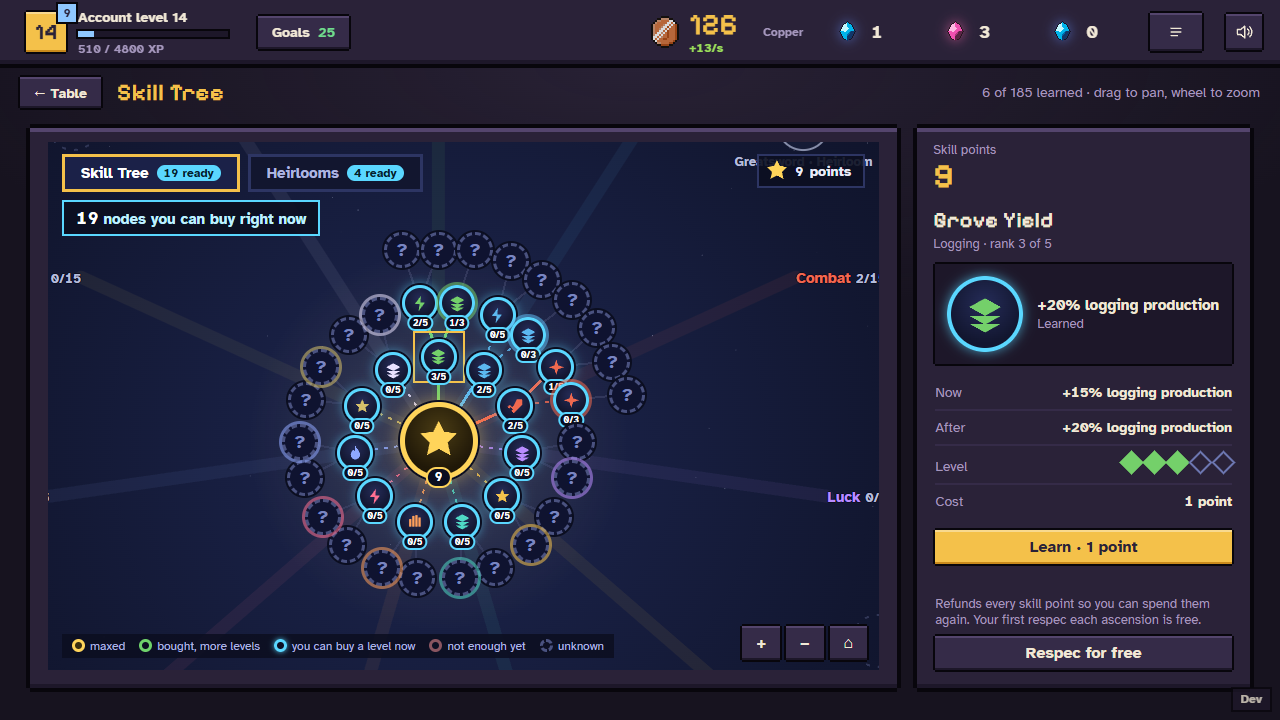
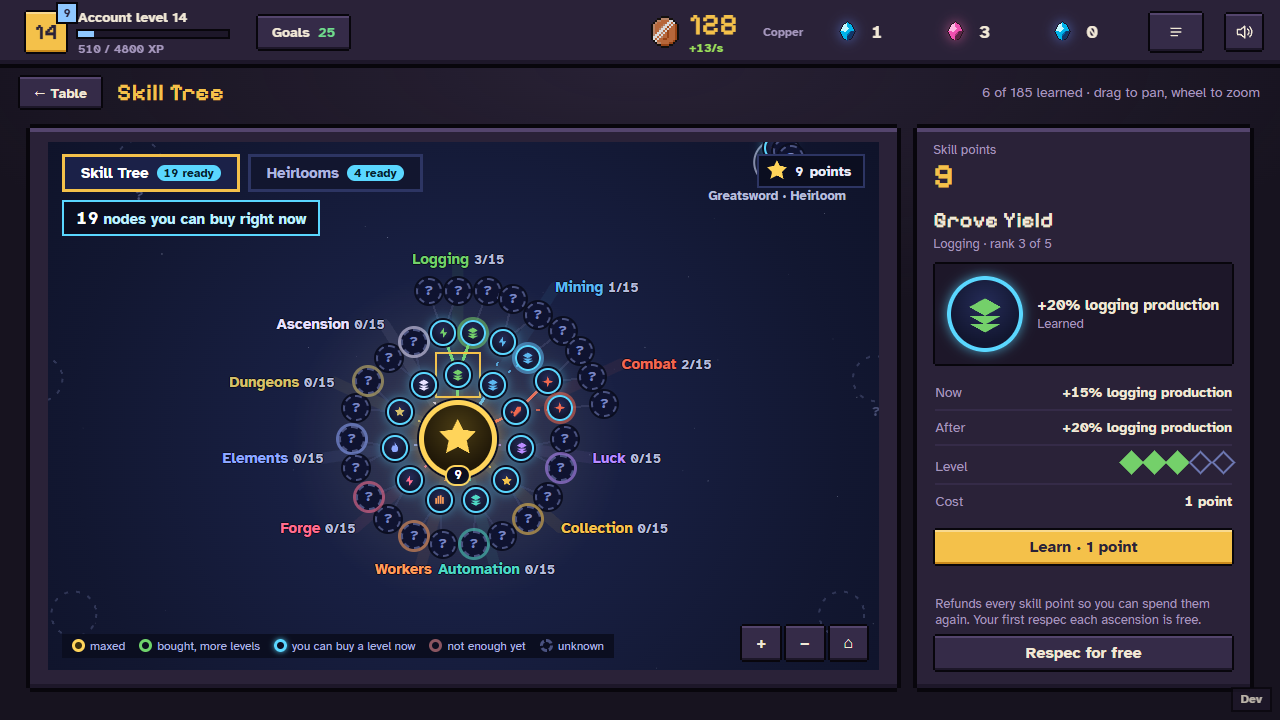
Skill Tree web: names only where they fit, titles whole in the frame, node art cosmetic in the plates

diff --git a/src/renderer/src/pages/skills.ts b/src/renderer/src/pages/skills.ts
@@ -12,6 +12,7 @@ import { frame, h } from '../shell/shell';
 import { attachTooltip, hide as hideTip } from '../shell/tooltip';
 import type { SoundId } from '../sound/registry';
 import { replay } from '../stage/motion';
+import { nodeStyle, skillGem } from '../ui/skillArt';
 import { glyphSvg } from '../ui/webGlyphs';
 import { createHeirloomsTab } from './heirloomsMap';
 import type { PageContext } from './production';
@@ -76,6 +77,14 @@ function starField(): SVGElement {
   }
   return g;
 }
+
+/** The gem art knows locked, open and owned: a closed gem is drawn locked, a maxed one owned. */
+const gemState = (n: NodeView): 'locked' | 'open' | 'owned' =>
+  n.state === 'maxed'
+    ? 'owned'
+    : n.state === 'closed' || n.state === 'unknown'
+      ? 'locked'
+      : n.state;
 
 export function createSkillsPage(page: HTMLElement, ctx: SkillsContext): { render(): void } {
   const { content } = ctx;
@@ -168,6 +177,11 @@ export function createSkillsPage(page: HTMLElement, ctx: SkillsContext): { rende
   const camera = { scale: START_SCALE, x: 0, y: 0, placed: false, touched: false, width: 0 };
   /** The skills in view (sky units): the first view fits them, so the web you have opens whole. */
   let fit: { x0: number; y0: number; x1: number; y1: number } | null = null;
+  /** The branch titles in view, so the first view keeps them whole inside the frame. */
+  let titles: { x: number; y: number; anchor: 'start' | 'middle' | 'end'; w: number }[] = [];
+  /** Every plate and its name, for hiding the names that would touch something. */
+  let plates: { n: NodeView; name: HTMLElement | null }[] = [];
+  let titleEls: HTMLElement[] = [];
   const clampScale = (s: number): number => Math.min(MAX_SCALE, Math.max(MIN_SCALE, s));
 
   /** Sizes and places the sky box in its stage from the camera (gems keep their pixel size). */
@@ -180,22 +194,104 @@ export function createSkillsPage(page: HTMLElement, ctx: SkillsContext): { rende
     if (!camera.placed && rect.width > 0) {
       camera.width = rect.width;
       // first view: everything you know, and the "?" next to it, inside the frame (under the tabs)
-      const f = fit ?? { x0: 0, y0: 0, x1: 0, y1: 0 };
-      const w = Math.max(f.x1 - f.x0, 1);
-      const hgt = Math.max(f.y1 - f.y0, 1);
-      camera.scale = clampScale(
-        Math.min((rect.width - 150) / w, (rect.height - (rect.width < 1000 ? 200 : 270)) / hgt, 1),
-      );
+      const f0 = fit ?? { x0: 0, y0: 0, x1: 0, y1: 0 };
+      let f = f0;
+      let scale = camera.scale;
+      // a few passes: a title is a fixed width in pixels, so its reach in sky units depends on the scale
+      for (let pass = 0; pass < 3; pass++) {
+        f = { ...f0 };
+        for (const t of titles) {
+          const reach = t.w / scale;
+          const left =
+            t.anchor === 'start' ? t.x : t.anchor === 'end' ? t.x - reach : t.x - reach / 2;
+          f.x0 = Math.min(f.x0, left);
+          f.x1 = Math.max(f.x1, left + reach);
+          f.y0 = Math.min(f.y0, t.y - 14 / scale);
+          f.y1 = Math.max(f.y1, t.y + 14 / scale);
+        }
+        scale = clampScale(
+          Math.min(
+            (rect.width - 90) / Math.max(f.x1 - f.x0, 1),
+            (rect.height - (rect.width < 1000 ? 190 : 215)) / Math.max(f.y1 - f.y0, 1),
+            1,
+          ),
+        );
+      }
+      camera.scale = scale;
       camera.x = rect.width / 2 - ((f.x0 + f.x1) / 2 - SKY.x) * camera.scale;
       camera.y = rect.height / 2 + 8 - ((f.y0 + f.y1) / 2 - SKY.y) * camera.scale;
       camera.placed = true;
     }
-    box.classList.toggle('is-far', camera.scale < 0.45);
-    box.classList.toggle('is-tiny', camera.scale < 0.4);
+    box.classList.toggle('is-far', camera.scale < 0.25);
+    box.classList.toggle('is-micro', camera.scale < 0.3);
+    box.classList.toggle('is-tiny', camera.scale < 0.42);
     box.style.width = `${SKY.w * camera.scale}px`;
     box.style.height = `${SKY.h * camera.scale}px`;
     box.style.left = `${camera.x}px`;
     box.style.top = `${camera.y}px`;
+    declutter();
+  }
+
+  /** Hides each name that would touch another name or a plate (the chosen skill always shows its own). */
+  function declutter(): void {
+    const k = camera.scale;
+    const reach = (n: NodeView): number => (n.keystone ? 38 : k < 0.3 ? 15 : k < 0.42 ? 21 : 30);
+    type R = { x0: number; y0: number; x1: number; y1: number };
+    const boxes = plates.map(({ n }) => ({
+      id: n.id,
+      x0: n.x * k - reach(n),
+      y0: n.y * k - reach(n),
+      x1: n.x * k + reach(n),
+      y1: n.y * k + reach(n),
+    }));
+    const hit = (a: R, b: R): boolean =>
+      a.x0 < b.x1 + 3 && a.x1 > b.x0 - 3 && a.y0 < b.y1 + 3 && a.y1 > b.y0 - 3;
+    const rank = (n: NodeView): number =>
+      n.id === selected ? 0 : n.canBuy ? 1 : n.rank > 0 ? 2 : 3;
+    const shown: R[] = [];
+    for (const { n, name } of [...plates].sort((a, b) => rank(a.n) - rank(b.n))) {
+      if (!name) continue;
+      const w = name.offsetWidth;
+      const hgt = name.offsetHeight;
+      if (w === 0) continue;
+      // under the plate, or over it when that is free
+      const below: R = {
+        x0: n.x * k - w / 2,
+        y0: n.y * k + reach(n) + 6,
+        x1: n.x * k + w / 2,
+        y1: n.y * k + reach(n) + 6 + hgt,
+      };
+      const above: R = { ...below, y0: n.y * k - reach(n) - 6 - hgt, y1: n.y * k - reach(n) - 6 };
+      const free = (r: R): boolean =>
+        !boxes.some((b) => b.id !== n.id && hit(r, b)) && !shown.some((o) => hit(r, o));
+      const spot = free(below) ? below : free(above) ? above : null;
+      const forced = n.id === selected;
+      name.classList.toggle('is-above', spot === above);
+      name.classList.toggle('is-hidden', spot === null && !forced);
+      if (spot || forced) shown.push(spot ?? below);
+    }
+    // two titles that touch drop their counts ("Workers", "Automation"), so none runs into another
+    const seen: DOMRect[] = [];
+    for (const el of titleEls) {
+      el.classList.remove('is-short');
+      let r = el.getBoundingClientRect();
+      const over = (o: DOMRect): boolean =>
+        r.left < o.right + 4 && r.right > o.left - 4 && r.top < o.bottom && r.bottom > o.top;
+      el.style.marginLeft = '';
+      if (seen.some(over)) {
+        el.classList.add('is-short');
+        r = el.getBoundingClientRect();
+      }
+      // still touching: slide it sideways, away from the title it meets
+      const meets = seen.find(over);
+      if (meets) {
+        const left = r.left + r.width / 2 < meets.left + meets.width / 2;
+        const shift = left ? meets.left - 6 - r.right : meets.right + 6 - r.left;
+        el.style.marginLeft = `${shift}px`;
+        r = el.getBoundingClientRect();
+      }
+      seen.push(r);
+    }
   }
 
   /** Zooms to `scale`, keeping the point under (cx, cy) of the stage where it is. */
@@ -304,6 +400,7 @@ export function createSkillsPage(page: HTMLElement, ctx: SkillsContext): { rende
   }
 
   function sky(v: TreeView): HTMLElement {
+    titleEls = [];
     // the title and the learned count are in the view's title bar (UI_RULES §2, table update 9d)
     const el = h('section', 'frame sk-frame');
     el.setAttribute('aria-label', t.tree);
@@ -378,9 +475,17 @@ export function createSkillsPage(page: HTMLElement, ctx: SkillsContext): { rende
       label.setAttribute('role', 'img');
       label.setAttribute('aria-label', t.branchLearned(b.name, b.learned, b.total));
       box.append(label);
+      titleEls.push(label);
     }
 
     // the branches only: the far weapon circles are for panning to
+    plates = [];
+    titles = v.branches.map((b) => ({
+      x: b.x,
+      y: b.y,
+      anchor: b.anchor,
+      w: (b.name.length + 6) * 9 + 12,
+    }));
     const arms = v.nodes.filter((n) => !n.circle);
     const xs = [CENTRE.x, ...arms.map((n) => n.x)];
     const ys = [CENTRE.y, ...arms.map((n) => n.y)];
@@ -428,17 +533,25 @@ export function createSkillsPage(page: HTMLElement, ctx: SkillsContext): { rende
     b.style.setProperty('--gem', n.colour);
     b.setAttribute('aria-label', n.label);
     b.setAttribute('aria-pressed', String(n.id === selected));
+    let nameEl: HTMLElement | null = null;
     const gem = h('span', 'sk-node__gem');
+    // the equipped node art (a style other than the starter) shows in the plate in place of the glyph
+    const style = nodeStyle(content, ctx.state());
     if (n.state === 'unknown') gem.append(h('span', 'sk-node__q', '?'));
-    else gem.innerHTML = glyphSvg(n.glyph, n.colour);
+    else if (style !== 'a') {
+      gem.innerHTML = skillGem(style, n.branch, gemState(n), n.keystone);
+      gem.classList.add('has-art');
+    } else gem.innerHTML = glyphSvg(n.glyph, n.colour);
     b.classList.toggle('is-key', n.keystone);
     b.classList.toggle('is-affordable', n.canBuy);
     b.append(gem);
     // the rank sits on the plate's lower edge, "2/5"; the name under it
     if (n.state !== 'unknown') {
       b.append(h('span', 'sk-node__rank bi-num', n.rankText));
-      b.append(h('span', 'sk-node__name', n.name));
+      nameEl = h('span', 'sk-node__name', n.name);
+      b.append(nameEl);
     }
+    plates.push({ n, name: nameEl });
     attachTooltip(b, () => tip(n));
     b.addEventListener('click', () => {
       selected = n.id;

diff --git a/src/renderer/src/pages/skillWeb.css b/src/renderer/src/pages/skillWeb.css
@@ -217,12 +217,12 @@
   top: calc(100% + 8px);
   left: 50%;
   translate: -50% 0;
-  width: 92px;
+  width: max-content;
   font-size: 12px;
   font-weight: 700;
   line-height: 1.15;
+  white-space: nowrap;
   text-align: center;
-  text-wrap: balance;
   color: color-mix(in srgb, var(--gem) 55%, #fff);
   text-shadow:
     0 1px 0 #0b0e20,
@@ -407,4 +407,52 @@
   .sk-legend__item--branch {
     display: none;
   }
+}
+
+.sk-node__name.is-hidden {
+  visibility: hidden;
+}
+.sk-node:hover .sk-node__name.is-hidden,
+.sk-node:focus-visible .sk-node__name.is-hidden {
+  z-index: 4;
+  visibility: visible;
+}
+.sk-node__gem.has-art .sg {
+  width: 24px;
+  height: 24px;
+  image-rendering: pixelated;
+}
+.sk-node.is-key .sk-node__gem.has-art .sg {
+  width: 32px;
+  height: 32px;
+}
+.sk-chip,
+.sk-count,
+.sk-legend {
+  background: #0b0e20;
+}
+
+/* very small: the whole web in a small window */
+.sk-sky.is-micro .sk-node__gem,
+.sk-sky.is-micro .sk-node.is-key .sk-node__gem {
+  width: 26px;
+  height: 26px;
+  margin: 2px;
+  border-width: 2px;
+}
+.sk-sky.is-micro .sk-node__rank {
+  display: none;
+}
+.sk-sky.is-micro .sk-node__q {
+  font-size: 14px;
+}
+
+.sk-branch.is-short .sk-branch__count {
+  display: none;
+}
+
+.sk-node__name.is-above,
+.sk-node.is-key .sk-node__name.is-above {
+  top: auto;
+  bottom: calc(100% + 8px);
 }

diff --git a/src/renderer/src/pages/skillsModel.ts b/src/renderer/src/pages/skillsModel.ts
@@ -37,9 +37,9 @@ export const CENTRE = { x: 0, y: 0 } as const;
  * depth in the branch's tree (the root first, the keystone last), and the skills of one depth are
  * spread across the arm.
  */
-export const depthRadius = (depth: number): number => 300 + 190 * depth;
+export const depthRadius = (depth: number): number => 260 + 170 * depth;
 /** Room between two skills of the same depth across an arm. */
-const LATERAL = 130;
+const LATERAL = 120;
 /** Where the branch name sits, past the keystone. */
 const LABEL_R = 1400;
 /** The weapon circles sit past the branches: their centre radius, outline radius and gem radius. */
@@ -332,6 +332,20 @@ export function treeView(
         COPY.skills.rank(i.rank, i.maxRank),
       ),
     });
+  }
+
+  // a branch's title sits just past the furthest skill of it in view, so the opening view keeps it whole
+  for (const b of branches) {
+    const reach = Math.max(
+      0,
+      ...nodes.filter((n) => n.branch === b.id && !n.circle).map((n) => Math.hypot(n.x, n.y)),
+    );
+    const ray = branchAngle(b.id);
+    const p = at(ray, reach + 120);
+    const cos = Math.cos(rad(ray));
+    b.x = p.x;
+    b.y = p.y;
+    b.anchor = cos > 0.3 ? 'start' : cos < -0.3 ? 'end' : 'middle';
   }
 
   const pos = new Map(nodes.map((n) => [n.id, n]));

diff --git a/docs/DESIGN.md b/docs/DESIGN.md
@@ -377,6 +377,7 @@ _Decided with the user on 2026-11-08. It is a gacha game: strength comes from th
 - [Default · in game] Skill tree details (Claude, 2026-11-11): about 180 skills in the eleven branches and about ten in each of the eleven circles, every branch on the same skeleton; a circle appears at Gold, opens further at Prismatic and at Mythic or Void, and its keystone opens when a card of the type reaches ★6 at Mythic or Void (2026-11-12, with the Heirloom tier gone); one circle per weapon type, not per card. The tree's share of total power stays at the skill numbers of `account.json` after the balance run (2026-11-11), about what Training gives. Skill points come in at about 43 in the first hour, 130 by 10 hours and 230 by 40 hours (account levels, stage star levels and achievements), so the 1,452 points of the whole tree are a long-term goal: about a sixth of it by 40 hours. The screen pans and zooms (`docs/UI_RULES.md`).
 - [Built] **Heirloom trees** (user, 2026-11-12: "heirlooms get their own unique trees so balancing its also easier"). Each of the 22 Heirlooms has its own small skill tree, apart from the account tree and its weapon circles, bought only for that Heirloom and acting only while it is at work.
 - [Default · in game] **Heirloom trees in detail** (Claude, 2026-11-12; the 11 trees are in `heirlooms.json` `trees`; the trees of the removed Heirlooms and their capstone skills left with them, 2026-11-14). A tree has six nodes in two paths: a root, two small nodes, two larger nodes (one per path) and a capstone that matches the weapon's theme and type; it costs 1, 1, 1, 2, 2 and 3 points (10 in all), and the capstone needs either larger node. Its points come from the Heirloom itself: one per star (6) and one at levels 35, 70, 105 and 140 (4), so a maxed Heirloom fills its whole tree and a fresh one picks a path. Respec is free. Every node is a modifier through the pipeline (§14, source `heirloom`) or the Heirloom's own duel skill (`skills.json`: guard, heal share, damage, health, weaken), acting while the Heirloom is in the fighting loadout (fighting) or works its place (pickaxe and logging axe, scoped to that place). A signature-power node acts only while its Heirloom leads the loadout, added on top of its own main ability's signature (which sets it). The one node that would have needed a new duel rule, Last Breath's capstone (double damage to an enemy under 20% of its HP), ships with its fallback, +10% crit chance and +1 crit damage (decided 2026-11-13).
+- [Default · in game] **Skill nodes cosmetic on the web** (Claude, 2026-11-16, on the planning chat's yes). The Skill Tree tab draws a skill as a plate with a glyph for what it raises (the picked look, `docs/UI_RULES.md` §2 The Skill Tree); a player who wears a Skill nodes style other than the starter sees that style's gem art inside the plate in place of the glyph (the glyph stays in the side panel), so owning a style still changes how the web looks.
 - [Built] **Heirlooms tab** (user, 2026-11-15: "4c for the Heirlooms tab"). All 22 Heirloom trees are also on the Heirlooms tab of the Skill Tree view, on one map, each with its card as the hub (`docs/UI_RULES.md` §2 The Skill Tree); the points, costs and respec are the ones above. The account tree is drawn as arms of skills instead of rings (each Ascension still opens a depth of skills), and you see the skills you know and a "?" beside them.
 - [Built] **Quests** (user, 2026-11-15: goals "at the moment are useless they should be like the starting ways to get 'lots' of first summons like quests in afk arena, example finish area 1 or beat boss 1 on easy 10 times"). Goals are quests, in the manner of Afk Arena's early quests, and they are the main way a new player gets a lot of first summons. They sit behind the Goals button in the header (user, 2026-11-11, the one-table layout: no goals panel on the table). A quest has a condition, a progress bar and a reward. When its condition is met it is done and waits to be claimed with a click (nothing is paid by itself), and the Goals button shows how many wait. A click on a quest that is not done opens the view it belongs to, as the goal tracker did.
 - [Default · in game] **Quest list and kinds** (Claude, 2026-11-15; `quests.json`, validated by a schema, no id in logic). Every quest has an id, a group (Dungeons, Cards, Gathering, Account), a name, a condition, the view it points at and a reward. A condition is one of the achievement conditions of `achievements.json` (§10 Achievements: a dungeon cleared, pulls, a card tier or star count, gems harvested, producers opened, tool levels, workers, Ascensions, a full loadout, hard or nightmare tiers cleared, endless depth, depth) or one of these: a floor reached on a tier, a boss or mini-boss beaten N times (the stage kills of §6 Stage stars), cards owned, the first card of a rarity, a card level, the account level, Training levels bought. Rewards are mainly Summon Scrolls; a few pay Glamour Scrolls or materials where the quest fits (a Wardrobe quest pays Glamour Scrolls, a gathering quest a material).
@@ -497,6 +498,10 @@ _The user chose these on 2026-11-07 in claude.ai. The handoff to the repo never 
 ## 16. Open questions
 
 Everything tagged `[Proposed]` or `[Default]` waits here for the user. Answer a line and its rule is rewritten with the answer and tagged `[To build]` or `[Built]`.
+
+Added 2026-11-16 (Skill Tree web, §10):
+
+- §10 Skill nodes cosmetic on the web: a worn style other than the starter replaces the glyph inside the plates. Alternative: plates keep their glyphs and the style only tints the border, or the style stays on the card enhancement chart only.
 
 Added 2026-11-16 (Carved Oak, §8 and UI_RULES §2 Shell look):
 
